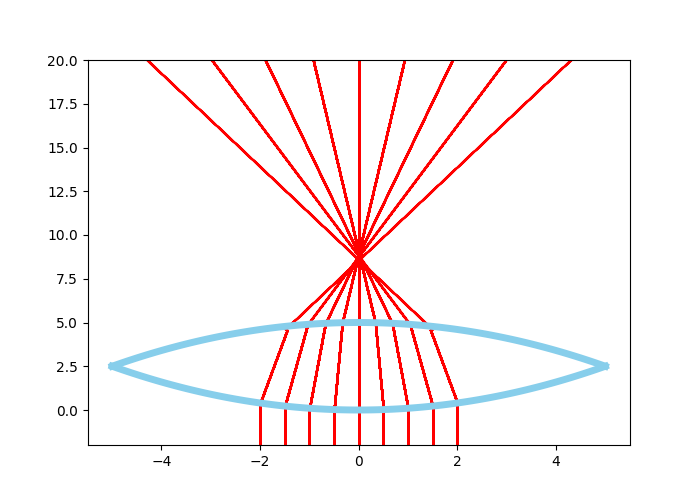
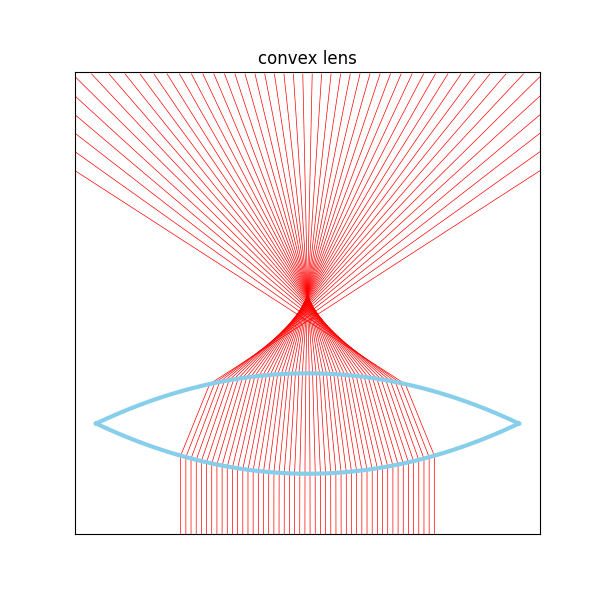
thirteenth commit

diff --git a/concave lens.py b/concave lens.py
@@ -1,58 +1,53 @@
 import matplotlib.pyplot as plt
 import numpy as np
 
+global contact
+
 def f(x):
  return -1/10*x**2
-
-def f2(x):
-  return +1/10*x**2+5
-
 def f_d(x):
  return -1/5*x
 
-def f2_d(x):
-  return +1/5*x
+def g(x):
+ return +1/10*x**2+5
+def g_d(x):
+ return +1/5*x
 
-def T(a):
-  if(f_d(a)<0):
-    return np.tan(np.pi/2-np.arctan(-f_d(a))+np.arcsin(2/3*np.sin(np.arctan(-f_d(a)))))
-  else:
-    return np.tan(np.pi/2+np.arctan(f_d(a))-np.arcsin(2/3*np.sin(np.arctan(f_d(a)))))
+def M1(x):
+ return np.tan(np.pi/2-np.arctan(-f_d(x))+np.arcsin(2/3*np.sin(np.arctan(-f_d(x)))))
+def M2(x):
+ return np.tan(np.arctan(-1/g_d(contact))+np.arcsin(3/2*np.sin(np.arctan(-1/g_d(contact))-np.arctan(M1(x)))))
 
-def T2(a):
-  if(f2_d(contact)<0):
-    return np.tan(np.arctan(-1/f2_d(contact))+np.arcsin(3/2*np.sin(-np.arctan(T(a))+np.arctan(-1/f2_d(contact)))))
-  else:
-    return np.tan(np.arctan(-1/f2_d(contact))-np.arcsin(3/2*np.sin(np.arctan(T(a))-np.arctan(-1/f2_d(contact)))))
+def find_x(x, y):
+ if(y<=f(x) or x<-5 or x>5):
+  return x
+ elif(f(x)<y<=g(contact)):
+  return 1/M1(x)*(y-f(x))+x
+ else:
+  return 1/M2(x)*(y-g(contact))+contact
 
-def find_x(a, t):
-  if(t<=f(a)):
-   return a
-  elif(f(a)<t<=f2(a)):
-   return 1/T(a)*(t-f(a))+a
-  else:
-    return 1/T2(a)*(t-f2(contact))+contact
-
-x_lens_d, y_lens_d = list(np.arange(-5, 5.1, 0.1)), list(f(np.arange(-5, 5.1, 0.1)))
-x_lens_u, y_lens_u = list(np.arange(-5, 5.1, 0.1)), list(f2(np.arange(-5, 5.1, 0.1)))
+lens_d = [list(np.linspace(-5, 5, 100)), list(f(np.linspace(-5, 5, 100)))]
+lens_u = [list(np.linspace(-5, 5, 100)), list(g(np.linspace(-5, 5, 100)))]
 ray_x, ray_y = [], []
 
-plt.figure(figsize=(7, 5))
-plt.xlim([-5.5, 5.5])
-plt.ylim([-2, 20])
-plt.plot(x_lens_d, y_lens_d, color='skyblue', linewidth='5', zorder=1)
-plt.plot(x_lens_u, y_lens_u, color='skyblue', linewidth='5', zorder=1)
+plt.figure(figsize=(6, 6))
+plt.axis([-5.5, 5.5, -3, 20])
+plt.xticks(range(0), range(0))
+plt.yticks(range(0), range(0))
+plt.title("concave lens")
+plt.plot(lens_d[0], lens_d[1], color='skyblue', linewidth='3', zorder=1)
+plt.plot(lens_u[0], lens_u[1], color='skyblue', linewidth='3', zorder=1)
 
-for i in np.arange(-2, 2.5, 0.5):
-  alpha = -5*T(i)+np.sqrt(25*T(i)**2+10*T(i)*i-10*f(i)+50)
-  beta = -5*T(i)-np.sqrt(25*T(i)**2+10*T(i)*i-10*f(i)+50)
-  contact = beta if f2(alpha)>=f2(beta) else alpha
-  for j in np.arange(-2, 20, 0.01):
-    ray_x.append(find_x(i, j))
-    ray_y.append(j)
-  plt.plot(ray_x, ray_y, color='red', linewidth='1', zorder=0)
-  ray_x.clear()
-  ray_y.clear()
-  print("%lf"%contact)
+for x in np.linspace(-3, 3, 50):
+ alpha = 5*M1(x)+np.sqrt(25*M1(x)**2-10*M1(x)*x+10*f(x)-50)
+ beta = 5*M1(x)-np.sqrt(25*M1(x)**2-10*M1(x)*x+10*f(x)-50)
+ contact = beta if g(alpha)>g(beta) else alpha
+ for y in np.arange(-3, 20, 0.1):
+  ray_x.append(find_x(x, y))
+  ray_y.append(y)
+ plt.plot(ray_x, ray_y, color='red', linewidth='0.5', zorder=0)
+ ray_x.clear()
+ ray_y.clear()
+
 
 plt.show()

diff --git a/convex lens.py b/convex lens.py
@@ -1,58 +1,52 @@
 import matplotlib.pyplot as plt
 import numpy as np
 
+global contact
+
 def f(x):
  return 1/10*x**2
-
-def g(x):
-  return -1/10*x**2+5
-
 def f_d(x):
  return 1/5*x
 
+def g(x):
+ return -1/10*x**2+5
 def g_d(x):
-  return -1/5*x
+ return -1/5*x
 
-def T1(x):
-  if(x<0):
-    return np.tan(np.pi/2-np.arctan(-f_d(x))+np.arcsin(2/3*np.sin(np.arctan(-f_d(x)))))
-  else:
-    return np.tan(np.pi/2+np.arctan(f_d(x))-np.arcsin(2/3*np.sin(np.arctan(f_d(x)))))
+def M1(x):
+ return np.tan(np.pi/2-np.arctan(-f_d(x))+np.arcsin(2/3*np.sin(np.arctan(-f_d(x)))))
+def M2(x):
+ return np.tan(np.arctan(-1/g_d(contact))+np.arcsin(3/2*np.sin(np.arctan(-1/g_d(contact))-np.arctan(M1(x)))))
 
-def T2(x):
-  if(contact<0):
-    return np.tan(np.arctan(-1/g_d(contact))-np.arcsin(3/2*np.sin(np.arctan(-1/g_d(contact))-np.arctan(T1(x)))))
-  else:
-    return np.tan(np.arctan(-1/g_d(contact))+np.arcsin(3/2*np.sin(-np.arctan(-1/g_d(contact))+np.arctan(T1(x)))))
+def find_x(x, y):
+ if(y<=f(x) or x<-5 or x>5):
+  return x
+ elif(f(x)<y<=g(contact)):
+  return 1/M1(x)*(y-f(x))+x
+ else:
+  return 1/M2(x)*(y-g(contact))+contact
 
-def find_x(a, t):
-  if(t<=f(a)):
-   return a
-  elif(f(a)<t<=f2(a)):
-   return 1/T(a)*(t-f(a))+a
-  else:
-    return 1/T2(a)*(t-f2(contact))+contact
-
-x_lens_d, y_lens_d = list(np.arange(-5, 5.1, 0.1)), list(f(np.arange(-5, 5.1, 0.1)))
-x_lens_u, y_lens_u = list(np.arange(-5, 5.1, 0.1)), list(f2(np.arange(-5, 5.1, 0.1)))
+lens_d = [list(np.linspace(-5, 5, 100)), list(f(np.linspace(-5, 5, 100)))]
+lens_u = [list(np.linspace(-5, 5, 100)), list(g(np.linspace(-5, 5, 100)))]
 ray_x, ray_y = [], []
 
-plt.figure(figsize=(7, 5))
-plt.xlim([-5.5, 5.5])
-plt.ylim([-2, 20])
-plt.plot(x_lens_d, y_lens_d, color='skyblue', linewidth='8', zorder=1)
-plt.plot(x_lens_u, y_lens_u, color='skyblue', linewidth='8', zorder=1)
+plt.figure(figsize=(6, 6))
+plt.axis([-5.5, 5.5, -3, 20])
+plt.xticks(range(0), range(0))
+plt.yticks(range(0), range(0))
+plt.title("convex lens")
+plt.plot(lens_d[0], lens_d[1], color='skyblue', linewidth='3', zorder=1)
+plt.plot(lens_u[0], lens_u[1], color='skyblue', linewidth='3', zorder=1)
 
-for i in np.linspace(-3, 3, 25):
-  alpha = -5*T(i)+np.sqrt(25*T(i)**2+10*T(i)*i-10*f(i)+50)
-  beta = -5*T(i)-np.sqrt(25*T(i)**2+10*T(i)*i-10*f(i)+50)
-  contact = alpha if f2(alpha)>=f2(beta) else beta
-  for j in np.arange(-2, 20, 0.01):
-    ray_x.append(find_x(i, j))
-    ray_y.append(j)
-  plt.plot(ray_x, ray_y, color='red', linewidth='1', zorder=0)
-  ray_x.clear()
-  ray_y.clear()
-  print("%lf"%contact)
+for x in np.linspace(-3, 3, 50):
+ alpha = -5*M1(x)+np.sqrt(25*M1(x)**2+10*M1(x)*x-10*f(x)+50)
+ beta = -5*M1(x)-np.sqrt(25*M1(x)**2+10*M1(x)*x-10*f(x)+50)
+ contact = alpha if g(alpha)>g(beta) else beta
+ for y in np.arange(-3, 20, 0.1):
+  ray_x.append(find_x(x, y))
+  ray_y.append(y)
+ plt.plot(ray_x, ray_y, color='red', linewidth='0.5', zorder=0)
+ ray_x.clear()
+ ray_y.clear()
 
 plt.show()
